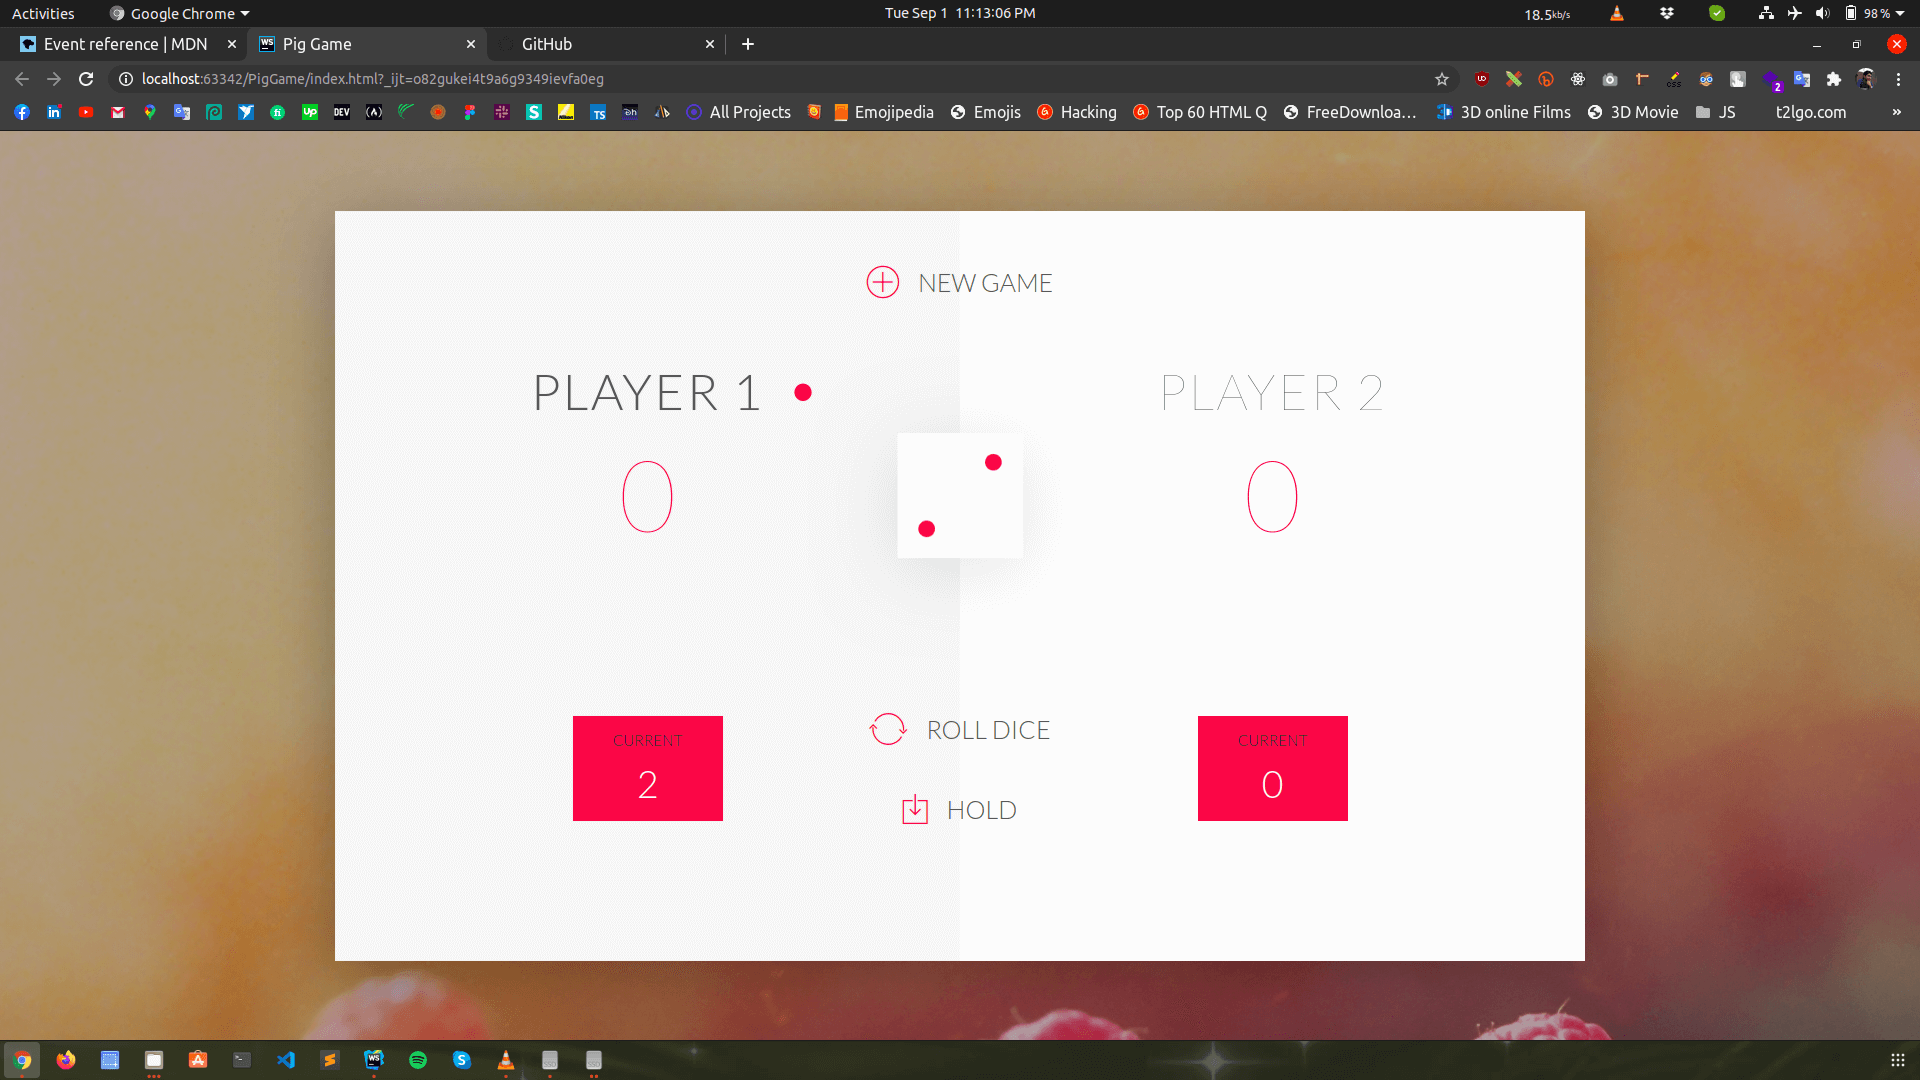
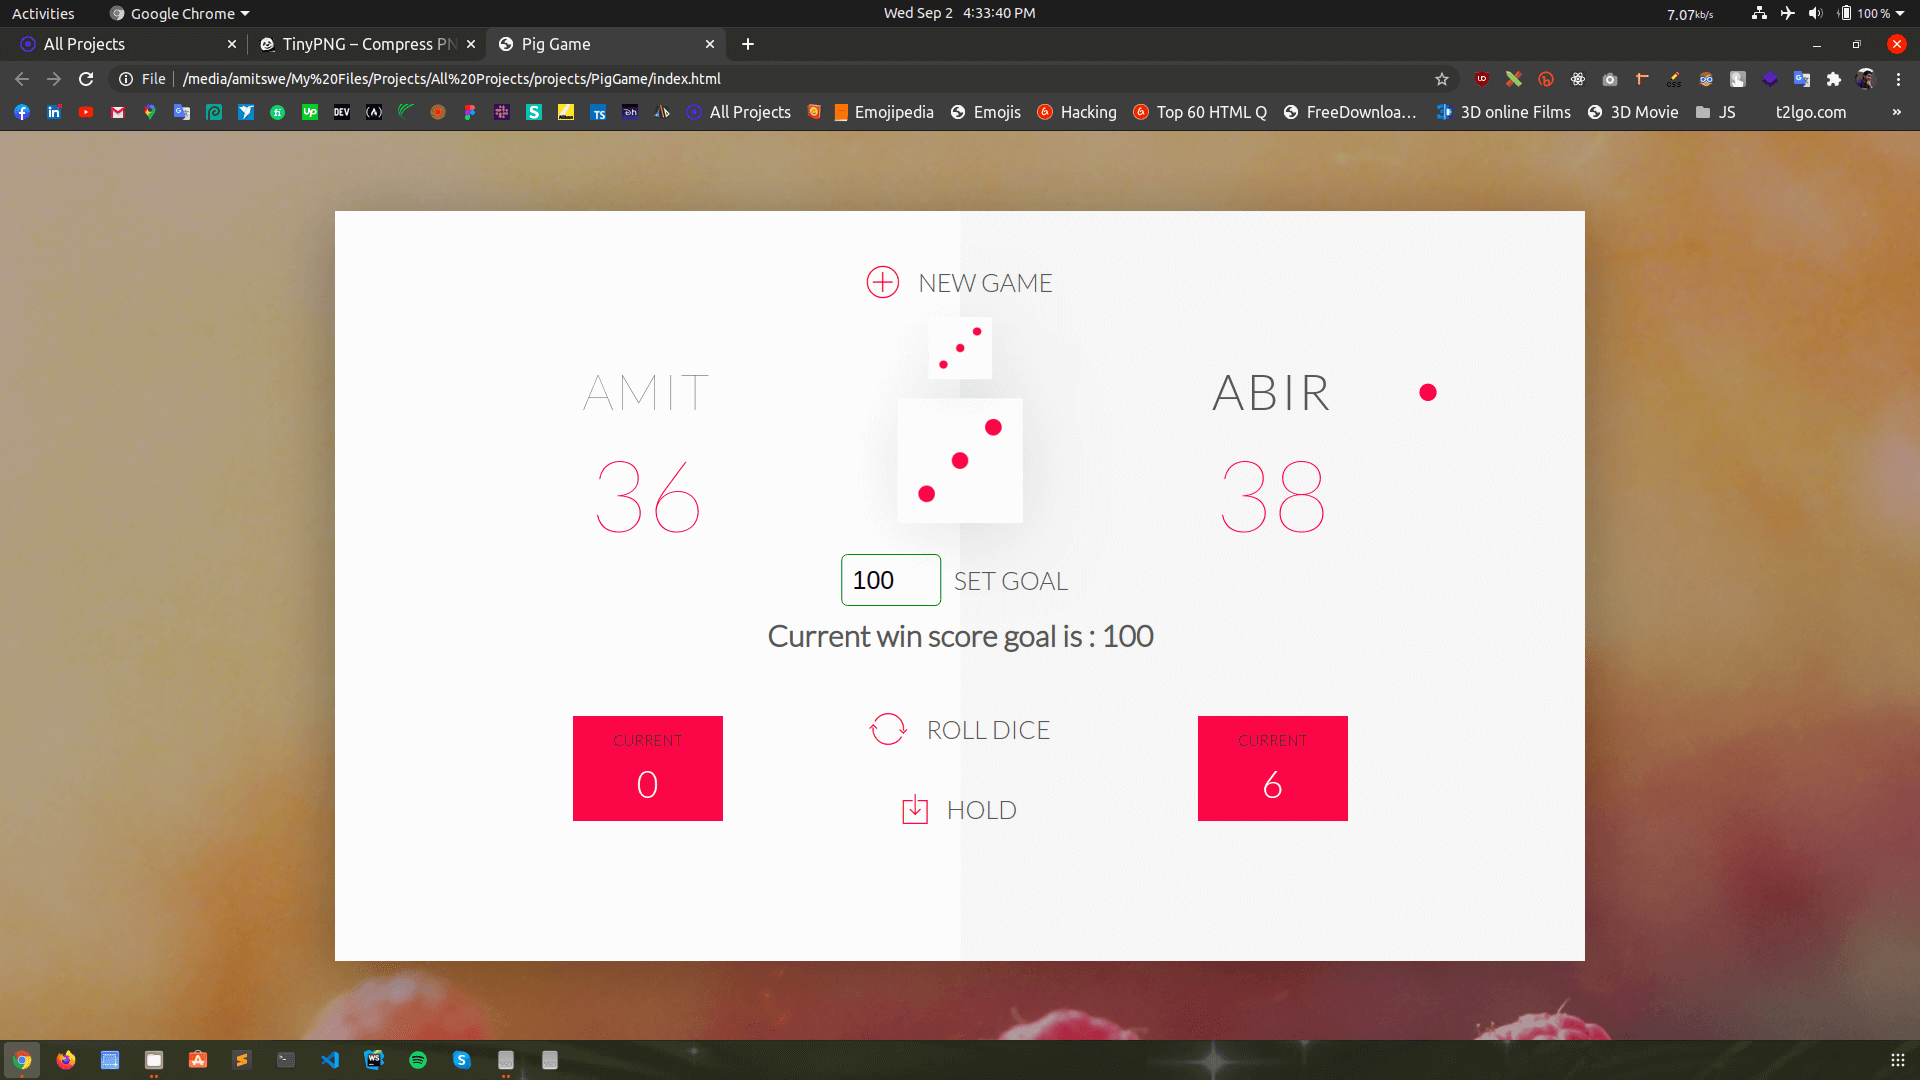
finish pigGame

diff --git a/projects/PigGame/js/app.js b/projects/PigGame/js/app.js
@@ -2,20 +2,35 @@ initFunc()
 
 document.querySelector('.btn-roll').addEventListener('click', () => {
     if (isGamePlaying) {
+
       // 1. generate random number
       let dice = Math.floor(Math.random() * 6) + 1
+      let dice2 = Math.floor(Math.random() * 6) + 1
+
+      // console.log(dice + ' -------------- ' + dice2)
 
       // 2. display results
       showDice.style.display = 'block'
+      showDice2.style.display = 'block'
       showDice.src = './img/dice-' + dice + '.png'
+      showDice2.src = './img/dice-' + dice2 + '.png'
+
+      // check dice 6 twice at a time if yse then loos total score of that player
+      if (previousScore === dice && previousScore === 6) {
+        scores[currentPlayer] = 0
+        document.querySelector('#score-' + currentPlayer).textContent = '0'
+        nextPlayer()
+      }
 
       // 3. update round score if number is not 1
-      if (dice !== 1) {
-        roundScore += dice
+      else if (dice !== 1 && dice2 !== 1) {
+        roundScore += dice + dice2
         document.querySelector('#current-' + currentPlayer).textContent = roundScore
       }
+
       // turn to next player
       else nextPlayer()
+      previousScore = dice
     }
   }
 )
@@ -39,6 +54,7 @@ document.querySelector('.btn-hold').addEventListener('click', () => {
       document.querySelector('#wineScore').setAttribute('disabled', true)
 
       showDice.style.display = 'none'
+      showDice2.style.display = 'none'
       isGamePlaying = false
     }
 
@@ -56,10 +72,12 @@ document.querySelector('.btn-score-limit').addEventListener('click', () => {
     alert('Please Give number')
     document.querySelector('#wineScore').value = ''
   } else {
+
     // set minimum value 10
     if (scoreLimit < 10) alert('provide number greater then 10')
+
+    // set scoreLimit to ui
     else {
-      // set scoreLimit to ui
       wineScore = scoreLimit
       document.querySelector('#wineScore-view').textContent = wineScore
     }
@@ -68,23 +86,28 @@ document.querySelector('.btn-score-limit').addEventListener('click', () => {
 
 // change player name
 document.querySelector('#name-0').addEventListener('click', () => {
-  if(isGamePlaying) {
+  if (isGamePlaying) {
     if (nameCount1 >= 0 && nameCount1 < 2) {
       newName = prompt('Give your name')
-      newName.length === 0 ? document.querySelector('#name-0').textContent = 'Player 1' : document.querySelector('#name-0').textContent = newName
+      newName.length === 0
+        ? document.querySelector('#name-0').textContent = 'Player 1'
+        : document.querySelector('#name-0').textContent = newName
       nameCount1 += 1
     } else alert('you have tried too much')
   }
 })
 
 document.querySelector('#name-1').addEventListener('click', () => {
-  if(isGamePlaying) {
+  if (isGamePlaying) {
     if (nameCount2 >= 0 && nameCount2 < 2) {
       newName = prompt('Give your name')
-      newName.length === 0 ? document.querySelector('#name-1').textContent = 'Player 2' : document.querySelector('#name-1').textContent = newName
+      newName.length === 0
+        ? document.querySelector('#name-1').textContent = 'Player 2'
+        : document.querySelector('#name-1').textContent = newName
       nameCount2 += 1
     } else alert('you have tried too much')
   }
 })
 
+// new game start
 document.querySelector('.btn-new').addEventListener('click', initFunc)

diff --git a/projects/PigGame/js/functions.js b/projects/PigGame/js/functions.js
@@ -1,4 +1,3 @@
-
 const nextPlayer = () => {
   // change currentPlayer
   currentPlayer === 0 ? currentPlayer = 1 : currentPlayer = 0
@@ -14,19 +13,22 @@ const nextPlayer = () => {
 
   // hide dice
   showDice.style.display = 'none'
+  showDice2.style.display = 'none'
 }
-
 
 const initFunc = () => {
   scores = [0, 0]
   roundScore = 0
   currentPlayer = 0
-  wineScore = 10
+  wineScore = 100
+  nameCount2 = nameCount1 = 0
+  previousScore = 0
 
   document.querySelector('#wineScore-view').textContent = wineScore
   isGamePlaying = true
 
   showDice.style.display = 'none'
+  showDice2.style.display = 'none'
 
   document.querySelector('#wineScore').value = wineScore
 
@@ -45,9 +47,8 @@ const initFunc = () => {
   document.querySelector('.player-0-panel').classList.remove('winner')
   document.querySelector('.player-1-panel').classList.remove('winner')
 
-
-  document.querySelector('.btn-roll').removeAttribute("disabled")
-  document.querySelector('.btn-hold').removeAttribute("disabled")
-  document.querySelector('.btn-score-limit').removeAttribute("disabled")
-  document.querySelector('#wineScore').removeAttribute("disabled")
+  document.querySelector('.btn-roll').removeAttribute('disabled')
+  document.querySelector('.btn-hold').removeAttribute('disabled')
+  document.querySelector('.btn-score-limit').removeAttribute('disabled')
+  document.querySelector('#wineScore').removeAttribute('disabled')
 }

diff --git a/projects/PigGame/js/init.js b/projects/PigGame/js/init.js
@@ -1,6 +1,5 @@
-let scores, roundScore, currentPlayer, wineScore, showDice, isGamePlaying, nameCount1, nameCount2
-
-nameCount2 = nameCount1 = 0
+let scores, roundScore, currentPlayer, wineScore, showDice, isGamePlaying, nameCount1, nameCount2, previousScore
 
 showDice = document.querySelector('.dice')
+showDice2 = document.querySelector('.dice-2')
 

diff --git a/projects/PigGame/css/main.css b/projects/PigGame/css/main.css
@@ -234,6 +234,15 @@ i {
     box-shadow: 0px 10px 60px rgba(0, 0, 0, 0.10);
 }
 
+.dice-2 {
+    position: absolute;
+    left: 50%;
+    top: 85px;
+    transform: translateX(-50%);
+    height: 50px;
+    box-shadow: 0px 10px 60px rgba(0, 0, 0, 0.10);
+}
+
 .winner {
     background-color: #f7f7f7;
 }

diff --git a/projects/PigGame/index.html b/projects/PigGame/index.html
@@ -43,6 +43,7 @@
     <button class="btn-hold"><i class="ion-ios-download-outline"></i>Hold</button>
 
     <img src="./img/dice-5.png" alt="Dice" class="dice">
+    <img src="./img/dice-5.png" alt="Dice" class="dice-2">
 </div>
 
 <script src="./js/init.js"></script>
